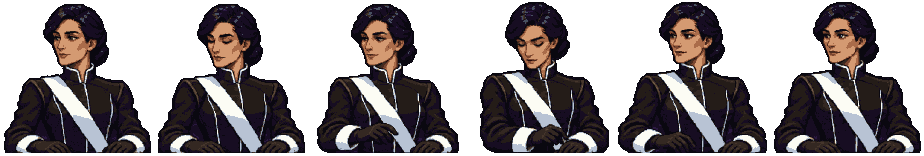
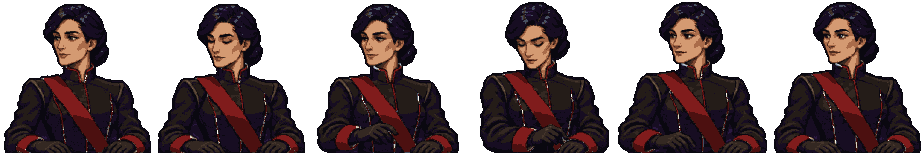
The patrol lady's talking portrait in the Dominion's crimson (art-wanted 101)
His words, on the cutter's lean (one portrait, the crimson, so she matches
her fight sheets): "good on the leans".

New `python tools/dmlady-sheet.py portrait`: cuts pt_dmlady by
tools/portrait-sheet.py, finds her white trim on its source page (the key
white, near-white here too -- no steel shows in her portrait -- grown
through light, never-warm pixels; specks under 25 px left, her eyes'
catchlights), marks it, cuts again and recolours where the mark lands; the
coat's thin piping, too thin to carry the mark, is the silvers below her
chin. Sash, collar, cuffs and piping in the sergeant's crimson. The crimson
alone: no screen tells the three ladies apart by her portrait (only
?portraits names it). tools/portrait-sheet.py says to run it after.

Eyes: eyes-dmlady-portrait-1125b (unseen; said her trim stays white) cut
for eyes-dmlady-portrait-1125c, beside the sergeant's. Stamps rebuilt.
(cutter-1125b)

diff --git a/js/eyes.js b/js/eyes.js
@@ -477,10 +477,11 @@
       obj: 'In the gallery, step the patrol lady\'s sheets: the sergeant\'s crimson sash, her patron only on her cuffs. Dominion enough?',
       url: 'deep16/?gallery&shelf=creatures&rows=dmladyfiend_p2,dmladymirror_p2,dmladyfae_p2,dmsergeant_p2&beside&lvl=3&fresh=1125lc',
       look: 'NEW, the art desk\'s ART-165 (art-wanted 101): the Dominion\'s patrol lady, black coat, rapier in her right hand, the small mirror at her left hip. Rows in all eight facings (SW, W, NW the mirrors): idle, walk (SE, E and rear NE as drawn, held by the art desk and cut on your "yes - cut what we have, dreamlist what needs revised" -- their gaits on the dream list), CAST (the mirror presented on frame 4: every spell of hers), attack (the rapier, home on 4), flinch, fall, prone. Her trim, drawn white for the cutter to colour, redone on your "the patron flavor is too much. It kinda feels like just the cuffs should patron - something small, with more dominion unity overall": sash, collar and piping in the sergeant\'s own crimson (right, for the match), and only her cuffs in her patron\'s colour -- THE FIEND (Savine\'s) red, THE MIRROR (the Old One\'s) the glass\'s cyan, THE FAE KING (Tronupholen\'s, purple-skinned in the realm\'s wiki) violet. A few frames slip: a cuff that runs into her piping reads crimson, and her rapier takes the crimson where its shine is drawn in the trim\'s white (lying beside her at the end of her E and SE falls). The grid\'s patrol lady, a warlock of the Mirror, wears the cyan cuffs; the three patron ladies wear theirs when their blocks land. Judge: is she one of the Dominion beside her sergeant, and do the cuffs say her patron?' },
-    'eyes-dmlady-portrait-1125b': { pri: 2, group: G2, title: 'THE PATROL LADY\'S TALKING PORTRAIT: the idle you approved, ART-165 (11-25, evening)', pt: 'the story build lane, 2026-11-25 (the cutter, cutter-1125b; tools/portrait-sheet.py; deep16/art/pt_dmlady)',
-      obj: 'Look at the patrol lady\'s talking portrait, six frames. Is this the face you approved?',
-      url: 'deep16/?portraits&who=dmlady&lvl=3&fresh=1125lp',
-      look: 'A SHOW, the portrait by name (labelled by its key, Dmlady). NEW, ART-165\'s PAGE 1, the idle you approved: the black coat, the white sash and cuffs, her eyes down on 4 -- Idle 6 at the counter rail, the rail cut away. One portrait for her three patrons: her trim stays white here. No scene speaks to the patrol yet. Judge: is this the face?' },
+    // (eyes-dmlady-portrait-1125b, unseen, cut: it said her trim stays white on the portrait -- recoloured on his "good on the leans", asked again below)
+    'eyes-dmlady-portrait-1125c': { pri: 2, group: G2, title: 'THE PATROL LADY\'S TALKING PORTRAIT IN THE DOMINION\'S CRIMSON: the idle you approved, ART-165 (11-25, night)', pt: 'the story build lane, 2026-11-25 (the cutter, cutter-1125b; tools/portrait-sheet.py, tools/dmlady-sheet.py portrait; deep16/art/pt_dmlady)',
+      obj: 'Look at the patrol lady\'s talking portrait beside the sergeant\'s: her sash, collar and cuffs in his crimson. One patrol?',
+      url: 'deep16/?portraits&who=dmlady,dmsergeant&lvl=3&fresh=1125lq',
+      look: 'A SHOW, the portraits by name (labelled by their keys, Dmlady and Dmsergeant). NEW, ART-165\'s PAGE 1, the idle you approved: the black coat, her eyes down on 4 -- Idle 6 at the counter rail, the rail cut away. Her trim, drawn white, is now the sergeant\'s crimson -- sash, collar, cuffs and the coat\'s piping -- on your "good on the leans": one portrait for her three patrons, the crimson alone, since no screen yet tells the three ladies apart by her portrait (her fight sheets carry the patron on her cuffs). A few light flecks stay in the thin piping. No scene speaks to the patrol yet. Judge: is this the face, and is she one of the Dominion beside him?' },
     // THE CUTTER (cutter-1125b), 11-25 night: art-wanted 107 (ART-169) laid on dominionroad by js/circles.js roadProps (data/maps.js dominionroad `wagon`). Not
     // superseded: eyes-two-walls-1125 and eyes-wagon-drill-1125 (the same door, ?fight=snootwagon; they ask the walls and the drill, not the wagon's look)
     'eyes-dmwagon-road-1125b': { pri: 2, group: G2, title: 'THE DOMINION\'S PRISON WAGON ON THE ROAD: the cage, the roof load, the door toward the lady (11-25, night)', pt: 'the story build lane, 2026-11-25 (the cutter, cutter-1125b; tools/dmwagon-sheet.py; deep16/art/dmwagon_p1; js/circles.js roadProps; data/maps.js dominionroad)',

diff --git a/deep16/data/sprites.js b/deep16/data/sprites.js
@@ -20374,7 +20374,7 @@ true
 "source": "deep16/_src/davos/ART-98 (the art desk's ART-98, sorted out of Fresh 10-21), cut by tools/portrait-sheet.py"
 },
 "pt_dmlady": {
-"image": "art/pt_dmlady.png?v=76b4e2661e",
+"image": "art/pt_dmlady.png?v=d748dd9ff0",
 "fw": 154,
 "fh": 156,
 "ax": 74,
@@ -20402,7 +20402,7 @@ true
 },
 "art": "ART-165",
 "door": "no one yet: no scene speaks to the Dominion's patrol (art-wanted 101)",
-"source": "deep16/_src/patrollady/2026-11-25-ART-165-PATROL-LADY/reference (the art desk's ART-165, sorted out of Fresh 10-21), cut by tools/portrait-sheet.py"
+"source": "deep16/_src/patrollady/2026-11-25-ART-165-PATROL-LADY/reference (the art desk's ART-165, sorted out of Fresh 10-21), cut by tools/portrait-sheet.py -- her trim in the Dominion's crimson #801c1c, #4c1010, #240808, as her fight sheets' sash, by tools/dmlady-sheet.py portrait (11-25, his \"good on the leans\")"
 },
 "pt_dmmender": {
 "image": "art/pt_dmmender.png?v=1fee45e93f",

diff --git a/tools/dmlady-sheet.py b/tools/dmlady-sheet.py
@@ -192,7 +192,80 @@ LOOK = dict(src=SRC, name='Patrol Lady', trim=False, tall=TALL, avoid=AVOID, bgt
     source='drawn by the art desk (ART-165, 11-25: art-wanted section 101, the Dominion\'s patrol lady, rapier and mirror, her trim in white, five views), '
            'cut by tools/dmlady-sheet.py over tools/mender-sheet.py\'s reader and tools/vivian-sheet.py; SW W NW mirrored')
 
+PT_REACH, PT_SEED, PT_WHITE = 200, 25, 230   # (her portrait's page: its slate shade and the coat's long piping reach further at its scale (at 60 the piping stayed white); a white seed this many px at least -- her
+                             #  eyes' catchlights are pure white too, a few px each; and near-white seeds too, at least PT_WHITE on every channel -- her coat's
+                             #  thin piping and the sash's tail by the counter are not the exact key here, and no steel shows in her portrait to be taken)
+
+
+PT_LOW = 0.45                                    # (of a portrait frame's height: below it, her coat, under her chin)
+FOLD_PT = ['#b8c3d4', '#8a96aa', '#636e82']      # (the silvers her piping snaps to at 1x)
+
+
+def portrait():
+    """her talking portrait pt_dmlady (tools/portrait-sheet.py cut_person) with her white trim -- sash, collar, piping, cuffs -- in the Dominion's crimson.
+    RULED 11-25, Griz, "good on the leans", on the cutter's lean: one portrait, the crimson, so she matches her fight sheets; the cuffs in each patron's
+    colour only where a screen tells the three ladies apart -- and none does (no fight shows a foe's talking portrait; only `?portraits&who=dmlady`), so
+    the crimson alone. The trim found as the sheets' is: on the source page (the exact white key, grown PT_REACH page px through light, never-warm pixels),
+    painted MARK, cut again by tools/portrait-sheet.py into a scratch copy, read back where the green landed, the plain cut recoloured by lightness"""
+    import shutil, tempfile
+    _o = sys.argv; sys.argv = sys.argv[:1]
+    sp = importlib.util.spec_from_file_location('portrait_sheet', os.path.join(ROOT, 'tools', 'portrait-sheet.py'))
+    PSM = importlib.util.module_from_spec(sp); sp.loader.exec_module(PSM)
+    sys.argv = _o
+    art = os.path.join(ROOT, 'deep16', 'art')
+    PSM.cut_person('dmlady')                                       # (the plain portrait, white as drawn)
+    keep = {x: open(os.path.join(art, 'pt_dmlady' + x), 'rb').read() for x in ('.png', '.json')}
+    pg = [p for p, _, _ in PSM.PEOPLE['dmlady'][3]['layout']][0]
+    tmp = tempfile.mkdtemp(prefix='dmlady-pt-')
+    a = np.asarray(Image.open(os.path.join(PSM.SRC, pg)).convert('RGBA')).copy()
+    rgb = a[..., :3].astype(int); mn, mx = rgb.min(-1), rgb.max(-1)
+    white = (mn >= PT_WHITE) & (mx - mn <= 25)
+    lab, n = ndimage.label(white, structure=np.ones((3, 3)))
+    if n:
+        sz = ndimage.sum(white, lab, range(1, n + 1))
+        white = np.isin(lab, 1 + np.where(np.asarray(sz) >= PT_SEED)[0])
+    light = (mn >= LIGHT) & (mx - mn <= 70) & (rgb[..., 2] >= rgb[..., 0] - 12)
+    trim, edge = white.copy(), white.copy()
+    for _ in range(PT_REACH):
+        edge = ndimage.binary_dilation(edge, np.ones((3, 3), bool)) & light & ~trim
+        trim |= edge
+    a[trim, :3] = MARK
+    os.makedirs(os.path.dirname(os.path.join(tmp, pg)), exist_ok=True)
+    Image.fromarray(a, 'RGBA').save(os.path.join(tmp, pg))
+    old = PSM.SRC
+    try:
+        PSM.SRC = tmp; PSM.cut_person('dmlady')
+        mk = np.asarray(Image.open(os.path.join(art, 'pt_dmlady.png')).convert('RGBA')).copy()
+    finally:
+        PSM.SRC = old
+        for x, b in keep.items():
+            open(os.path.join(art, 'pt_dmlady' + x), 'wb').write(b)
+        shutil.rmtree(tmp, ignore_errors=True)
+    im = np.asarray(Image.open(os.path.join(art, 'pt_dmlady.png')).convert('RGBA')).copy()
+    assert mk.shape == im.shape and ((mk[..., 3] > 0) == (im[..., 3] > 0)).all(), 'the marked portrait is not registered with the plain one'
+    g = mk[..., :3].astype(int)
+    m = (mk[..., 3] > 0) & (g[..., 1] - np.maximum(g[..., 0], g[..., 2]) >= 8)
+    fh = json.load(open(os.path.join(art, 'pt_dmlady.json')))['fh']
+    low = (np.arange(im.shape[0]) % fh >= PT_LOW * fh)[:, None]   # (the coat's long piping: two px of key white and slate on the page, too thin to carry
+    sil = np.zeros(im.shape[:2], bool)                             #  the mark through the box-down; at 1x it snaps to silver -- and no steel shows in her
+    for h in FOLD_PT:                                              #  portrait, her hair's highlights stand above PT_LOW: so the silvers below it are trim)
+        sil |= (np.abs(im[..., :3].astype(int) - np.array(hexrgb(h))).sum(-1) == 0)
+    m |= sil & low & (im[..., 3] > 0)
+    L = im[..., :3].astype(int).mean(-1)
+    lv = [m & (L >= LIT), m & (L >= MID) & (L < LIT), m & (L >= SHADE) & (L < MID)]
+    for k, c in zip(lv, DOMINION):
+        im[k, :3] = hexrgb(c)
+    Image.fromarray(im, 'RGBA').save(os.path.join(art, 'pt_dmlady.png'), optimize=True)
+    meta = json.load(open(os.path.join(art, 'pt_dmlady.json')))
+    meta['source'] = meta.get('source', '').split(' -- her trim in the Dominion')[0] + (' -- her trim in the Dominion\'s crimson %s, as her fight sheets\' sash, '
+                     'by tools/dmlady-sheet.py portrait (11-25, his "good on the leans")' % ', '.join(DOMINION))
+    json.dump(meta, open(os.path.join(art, 'pt_dmlady.json'), 'w'), indent=1)
+    print('  pt_dmlady: %d trim px in the crimson (%s lit, mid, shade)' % (int(sum(k.sum() for k in lv)), '/'.join(str(int(k.sum())) for k in lv)))
+
+
 if __name__ == '__main__':
+    if 'portrait' in sys.argv:
+        portrait(); sys.exit(0)
     register(overlay='overlay' in sys.argv)
     if 'frames' in sys.argv:
         for w in _W:

diff --git a/tools/portrait-sheet.py b/tools/portrait-sheet.py
@@ -446,7 +446,8 @@ for _key, _pg, _av in [('dmmender', 'mender/2026-11-25-ART-164-COMBAT/approved/A
                     {'edge': True, 'avoid': _av, 'bevel': (_pg,), 'layout': [(_pg, [3, 3], ['idle'] * 6)]})
 # THE DOMINION'S PATROL LADY, HER IDLE (11-25, the cutter seat cutter-1125b; art-wanted 101): ART-165's PAGE 1 (reference/ART-165-PT-DMLADY-PAGE-1-IDLE.png,
 # 1440x810, the only copy sent), sorted to deep16/_src/patrollady/2026-11-25-ART-165-PATROL-LADY/: the black coat, the white sash and cuffs, her eyes down on 4,
-# Idle 6 at the counter rail as the sergeant's. One portrait for her three patrons: her trim stays white here (her fight sheets carry the patron's colour)
+# Idle 6 at the counter rail as the sergeant's. One portrait for her three patrons, her trim in the Dominion's crimson as her fight sheets' sash (RULED 11-25,
+# Griz, "good on the leans"): AFTER cutting her here, run `python tools/dmlady-sheet.py portrait`, which cuts her again and recolours the white trim
 _pg = 'patrollady/2026-11-25-ART-165-PATROL-LADY/reference/ART-165-PT-DMLADY-PAGE-1-IDLE.png'
 PEOPLE['dmlady'] = (os.path.dirname(_pg), 'ART-165', 'no one yet: no scene speaks to the Dominion\'s patrol (art-wanted 101)',
                     {'edge': True, 'avoid': ['fire', 'blue', '#14171e', '#20252f', '#313846'], 'bevel': (_pg,), 'layout': [(_pg, [3, 3], ['idle'] * 6)]})
